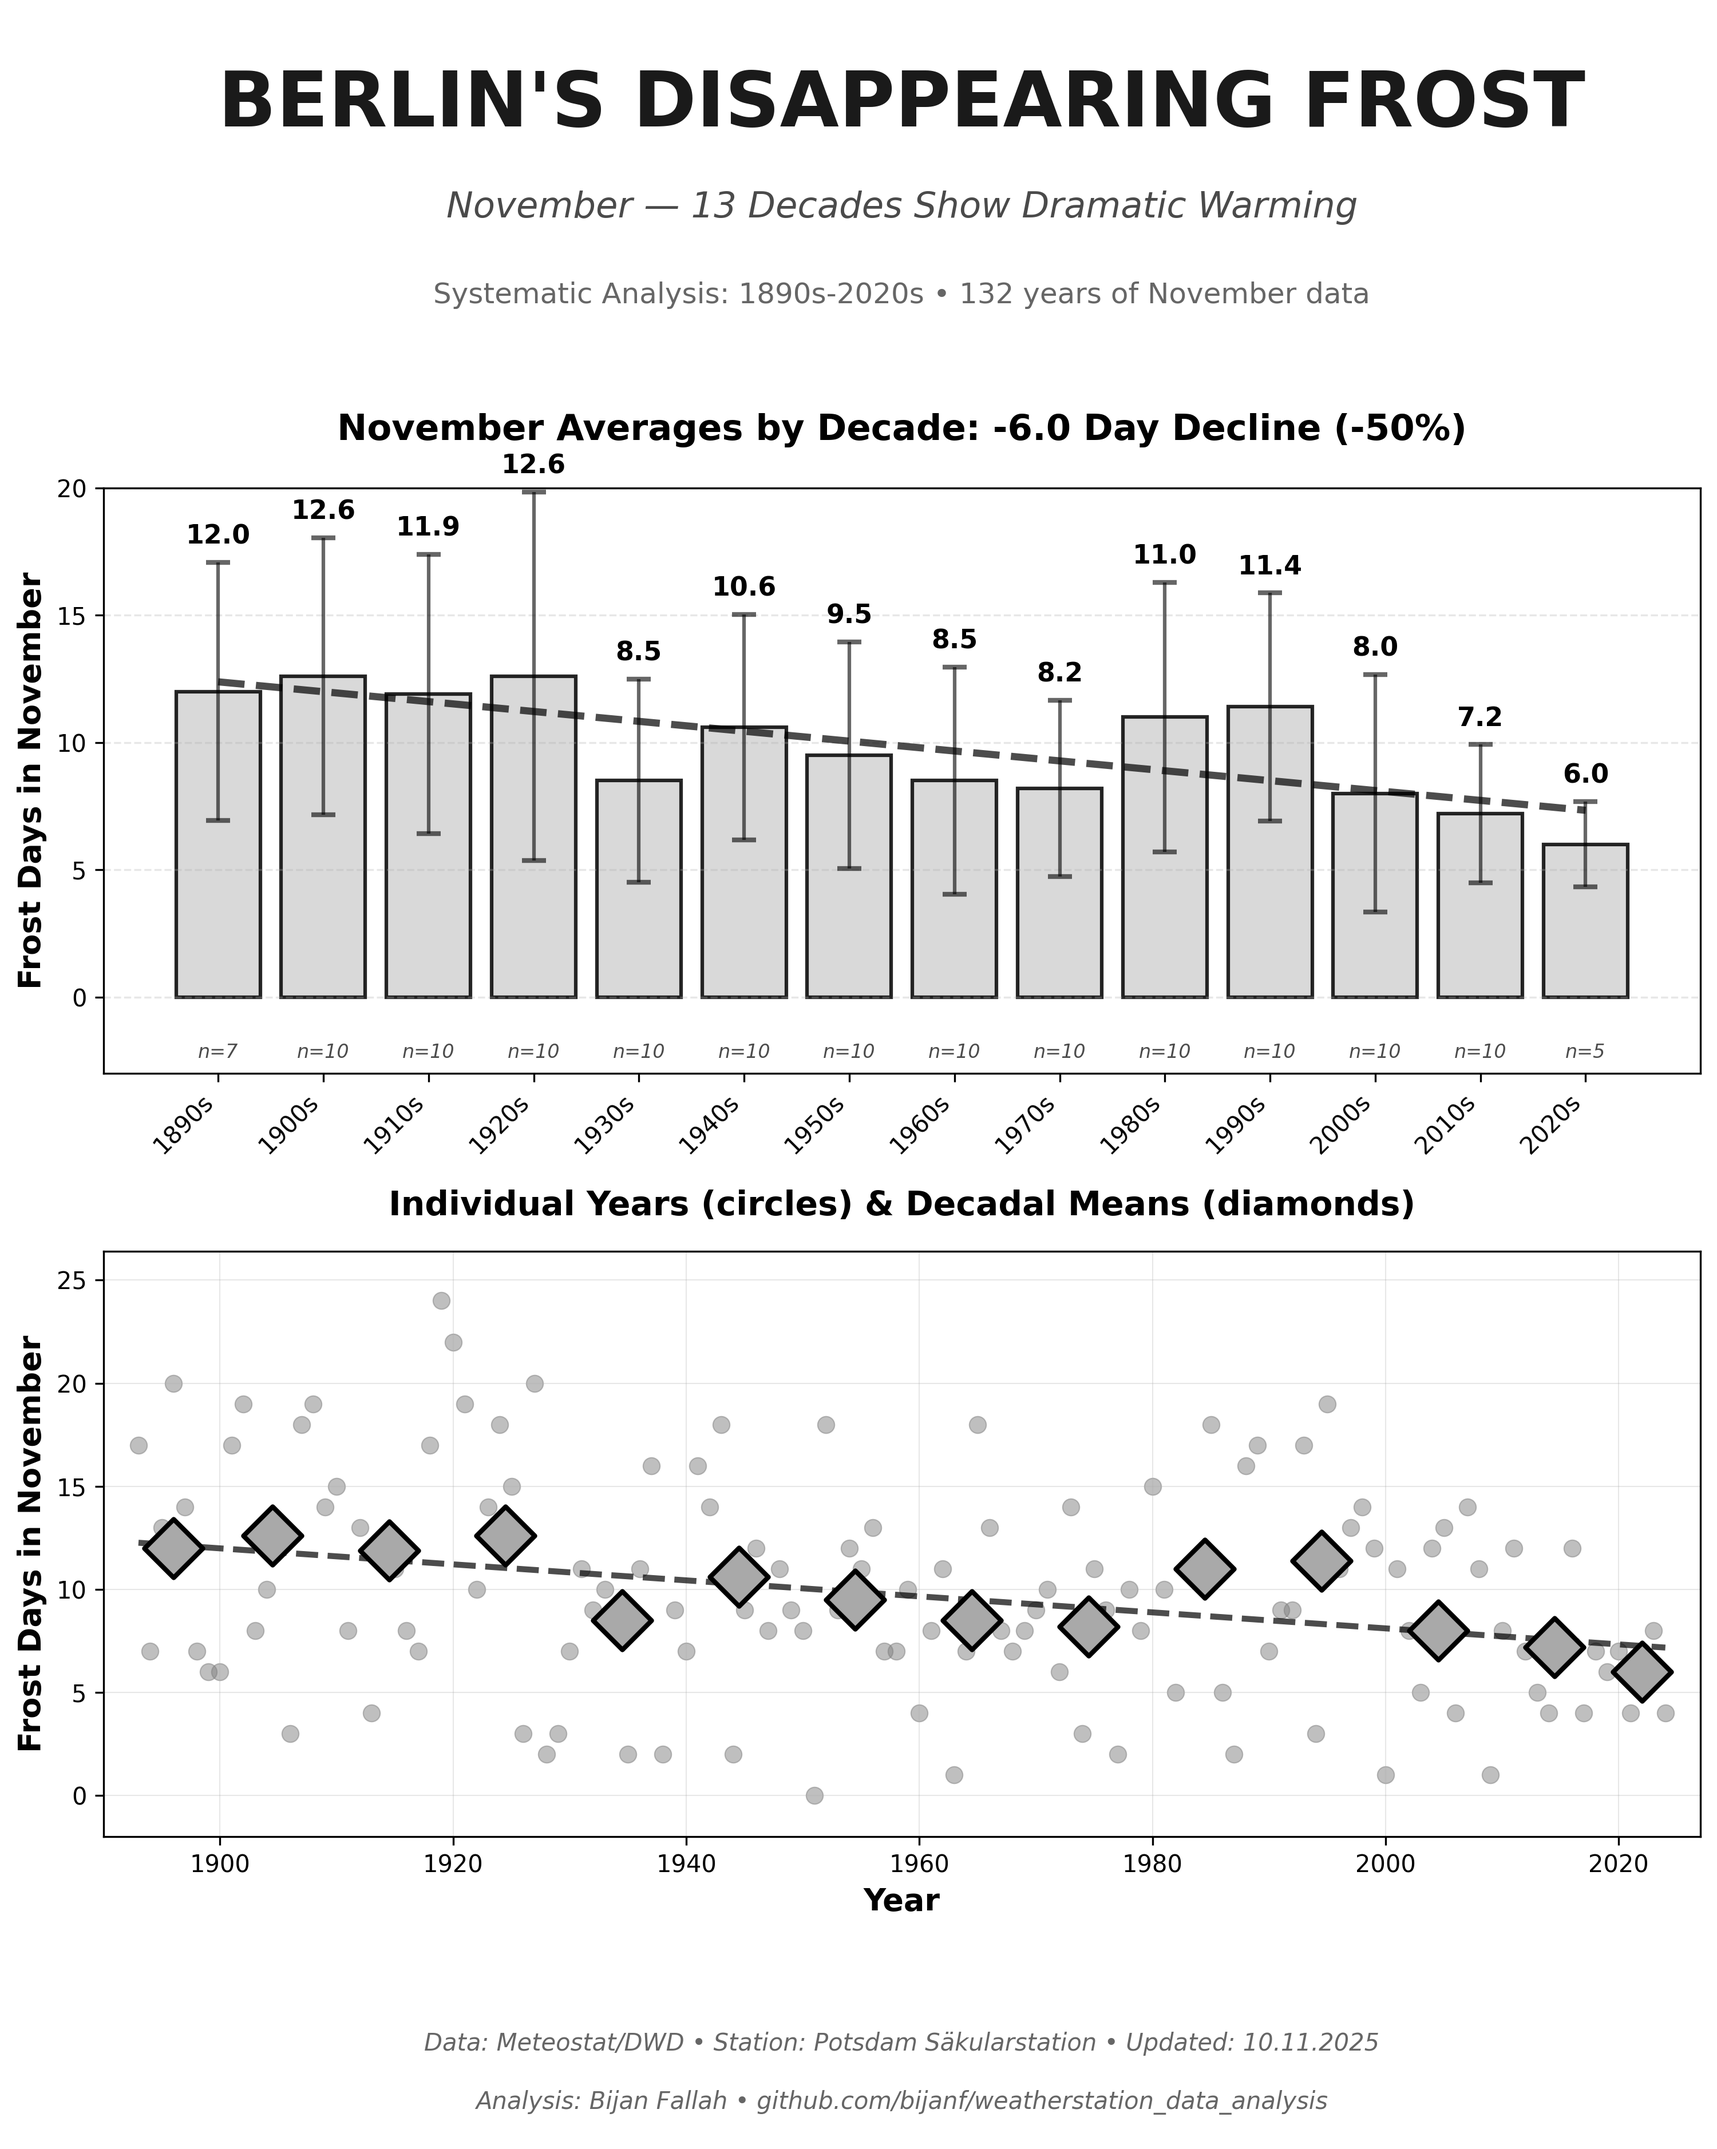
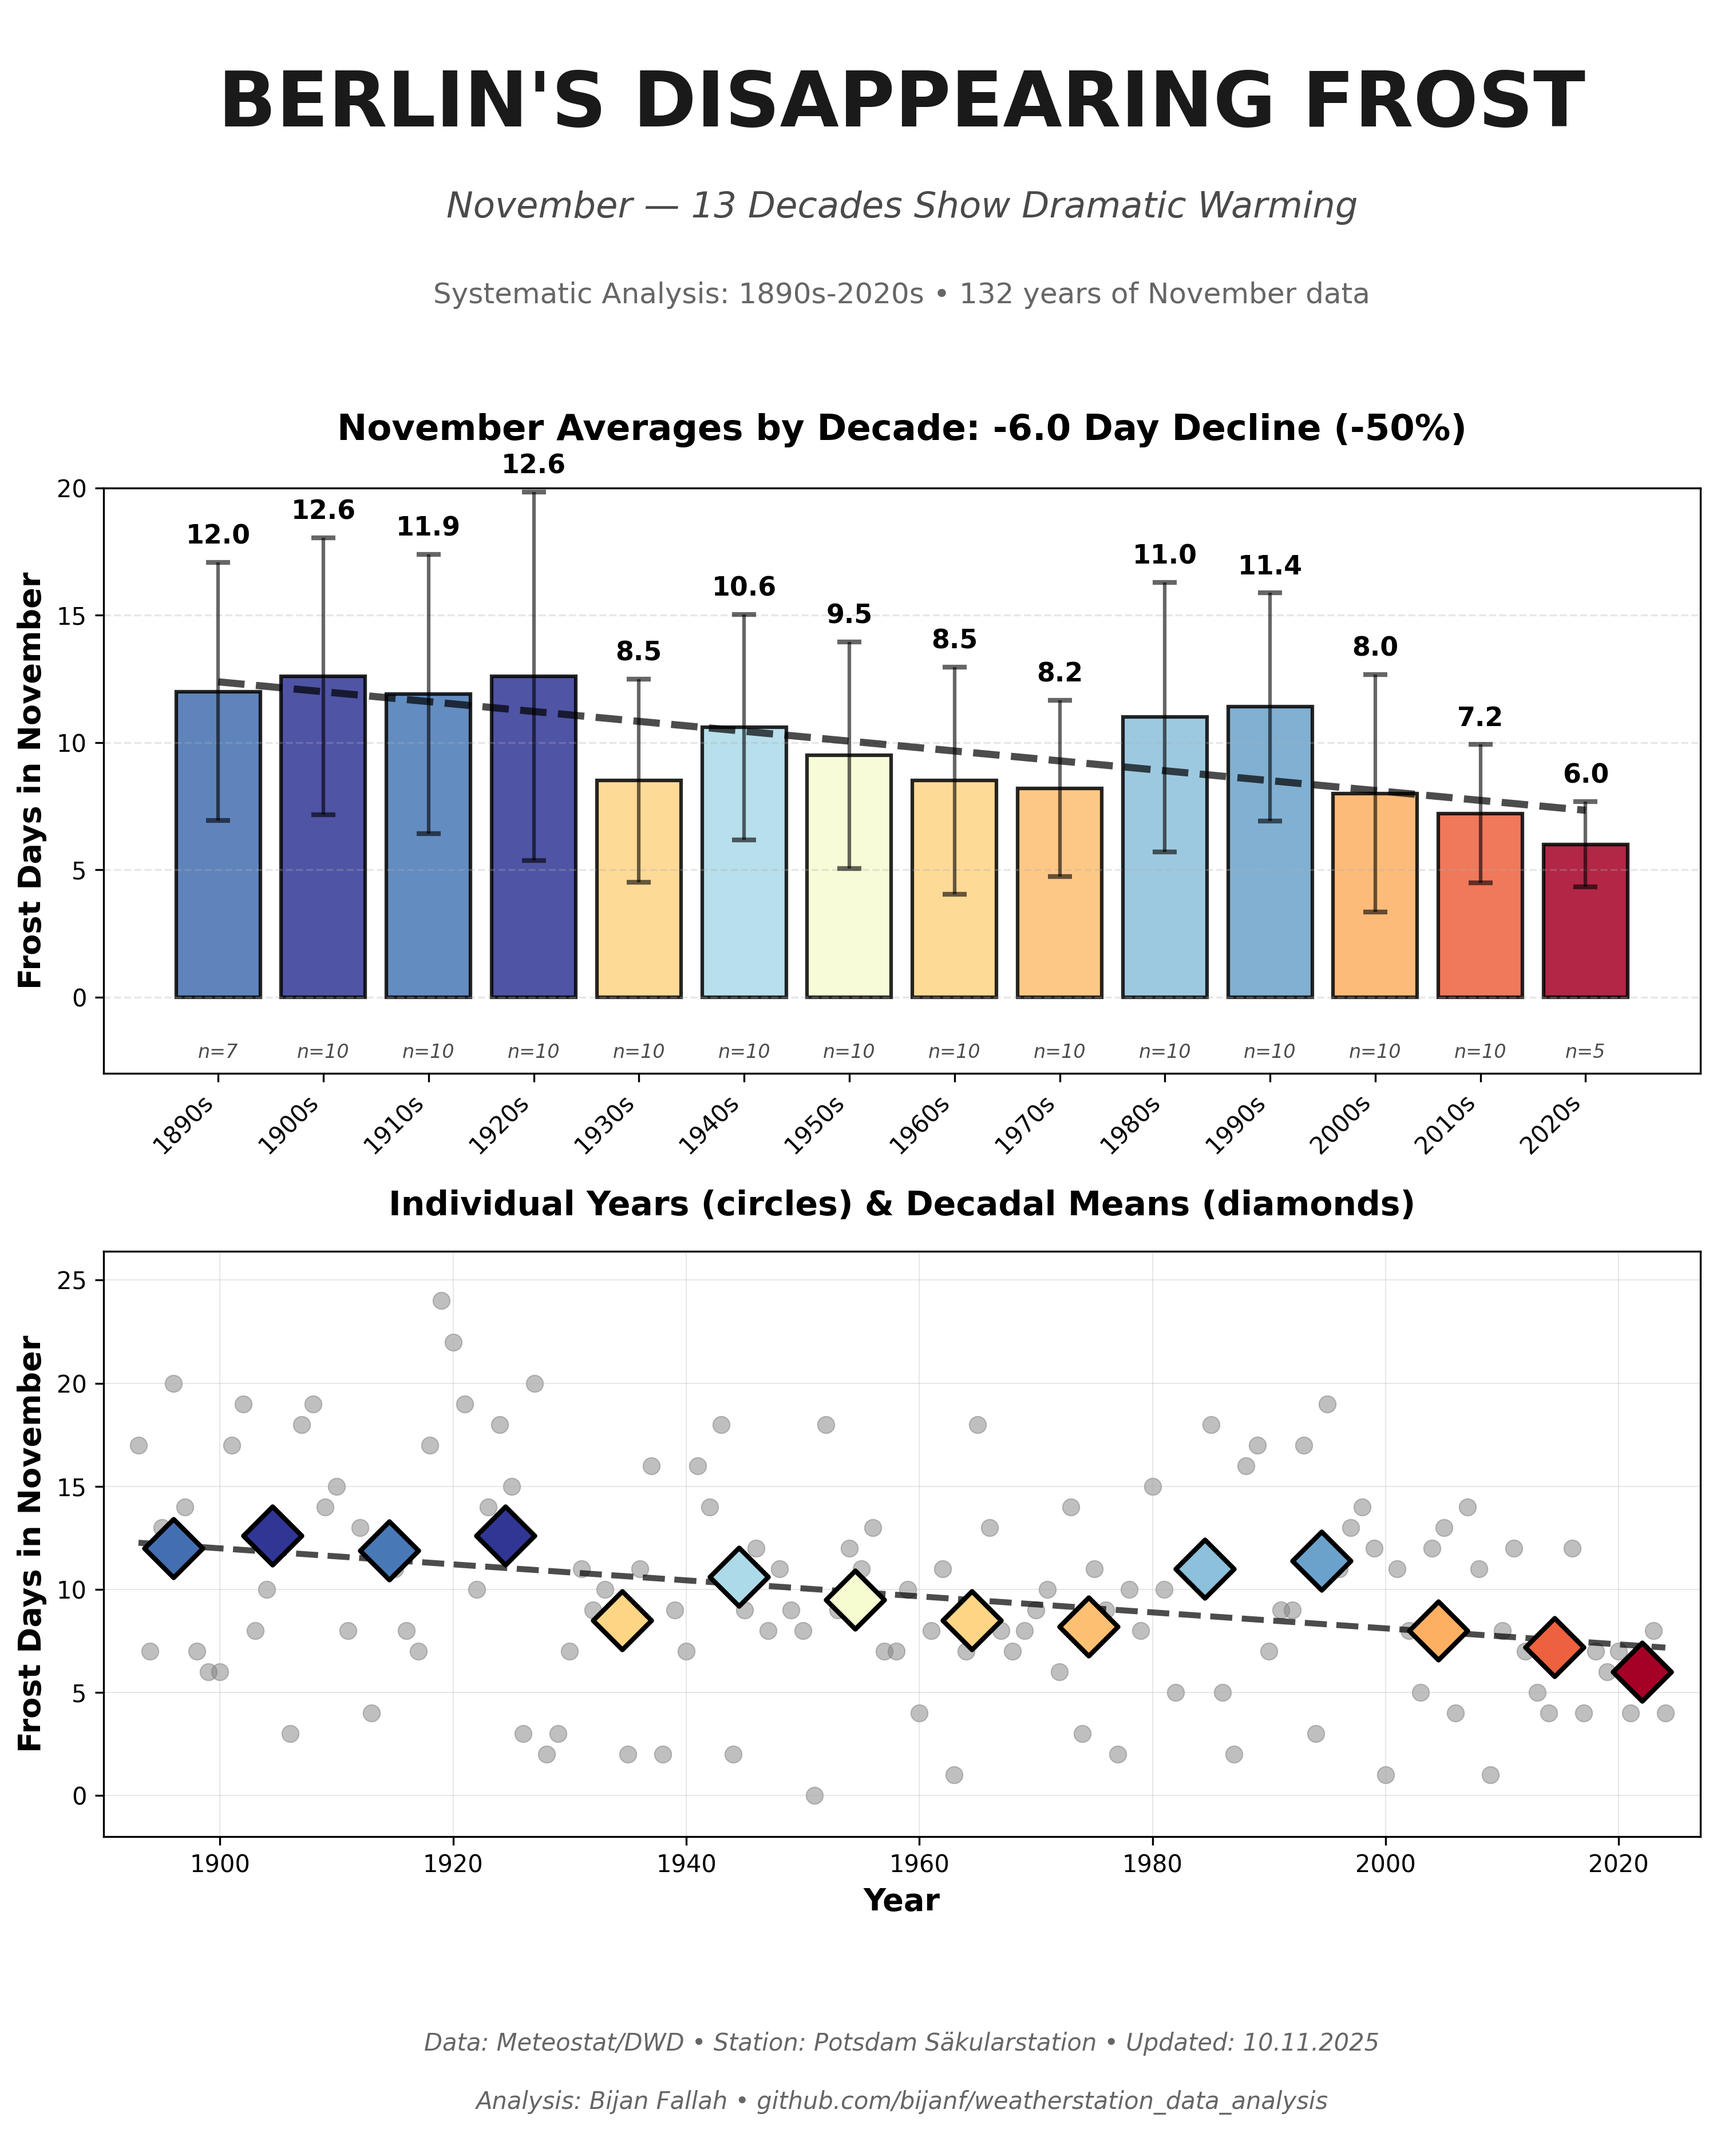
Add meaningful color-coding based on frost day values
Color scheme now provides information:
- Blue bars/diamonds = many frost days (cold Novembers, 12-13 days)
- Light blue = moderate frost days (10-12 days)
- Yellow = fewer frost days (8-9 days)
- Orange = even fewer (7-8 days)
- Red = fewest frost days (warm Novembers, 6 days)

Key insight from colors:
- Early decades (1900s-1920s) are blue = consistently cold
- Mid-century (1930s-1970s) shows variability (yellow/light blue)
- Recent decades (2000s-2020s) trend orange/red = consistently warm

Color now encodes temperature information directly, not just time.
Makes pattern instantly visible: cold → warm transition over 132 years.

🤖 Generated with [Claude Code](https://claude.com/claude-code)

diff --git a/berlin_autumn_decadal_analysis.py b/berlin_autumn_decadal_analysis.py
@@ -308,9 +308,15 @@ def create_decadal_infographic(decadal_stats, trend_stats, era_comparison,
     stds = [decadal_stats[d]['std'] for d in decades]
     n_years = [decadal_stats[d]['n_years'] for d in decades]
 
-    # Uniform grey bars for clean, simple look
+    # Color-code bars by frost day value (blue = many/cold, red = few/warm)
+    # Normalize values to 0-1 range for colormap
+    vmin, vmax = min(means), max(means)
+    norm = plt.Normalize(vmin=vmin, vmax=vmax)
+    cmap = plt.cm.RdYlBu  # Red (warm/few) to Blue (cold/many)
+
     x = np.arange(len(decades))
-    bars = ax_bars.bar(x, means, color='lightgrey', alpha=0.85, edgecolor='black', linewidth=1.5)
+    colors = [cmap(norm(val)) for val in means]
+    bars = ax_bars.bar(x, means, color=colors, alpha=0.85, edgecolor='black', linewidth=1.5)
 
     # Add error bars (standard deviation)
     ax_bars.errorbar(x, means, yerr=stds, fmt='none', ecolor='black',
@@ -348,13 +354,21 @@ def create_decadal_infographic(decadal_stats, trend_stats, era_comparison,
     # All individual years in grey
     ax_scatter.scatter(years, values, c='grey', s=50, alpha=0.5, edgecolors='grey', linewidth=0.5)
 
-    # Add decadal means as larger grey diamonds
+    # Color-code decadal diamonds by frost day value
+    # Use same colormap as bar chart
+    all_decade_means = [decadal_stats[d]['mean'] for d in decades]
+    vmin_scatter, vmax_scatter = min(all_decade_means), max(all_decade_means)
+    norm_scatter = plt.Normalize(vmin=vmin_scatter, vmax=vmax_scatter)
+    cmap_scatter = plt.cm.RdYlBu  # Red (warm/few) to Blue (cold/many)
+
     for decade in decades:
         decade_years = [y for y in years if (y // 10) * 10 == decade]
         if decade_years:
             mid_year = np.mean(decade_years)
-            ax_scatter.scatter([mid_year], [decadal_stats[decade]['mean']],
-                             color='darkgrey', s=300, marker='D',
+            decade_mean = decadal_stats[decade]['mean']
+            color = cmap_scatter(norm_scatter(decade_mean))
+            ax_scatter.scatter([mid_year], [decade_mean],
+                             color=color, s=300, marker='D',
                              edgecolors='black', linewidth=2, zorder=5)
 
     # Add trend line
